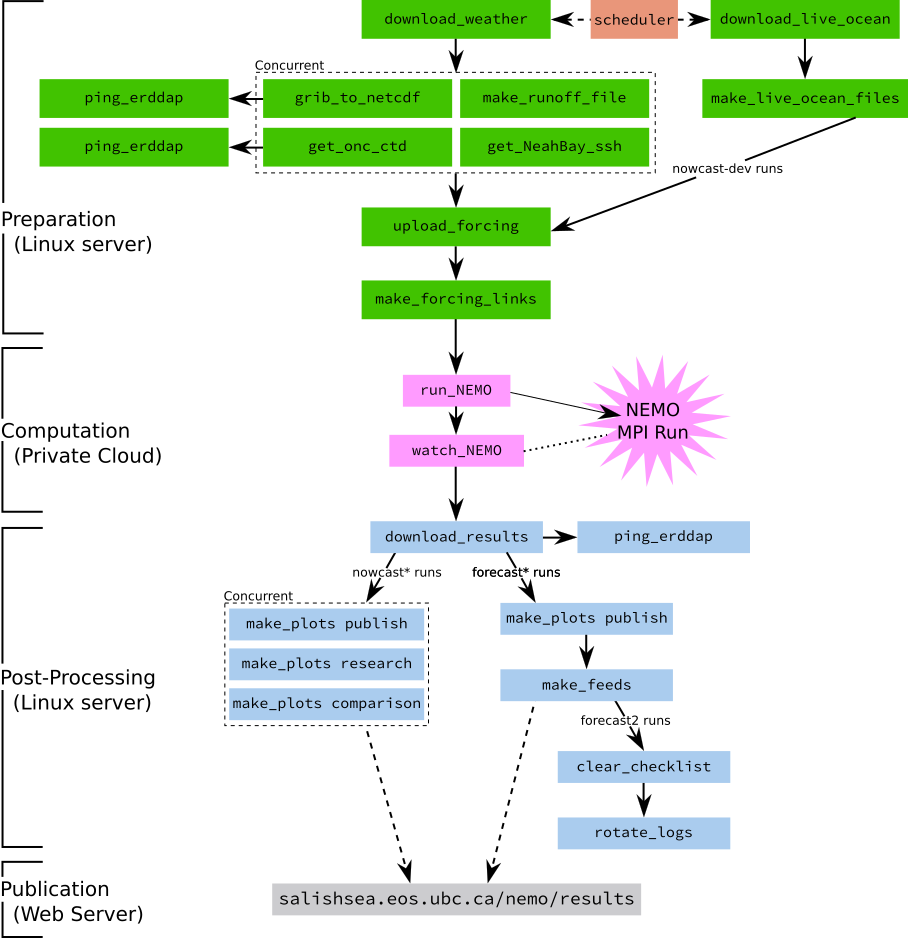
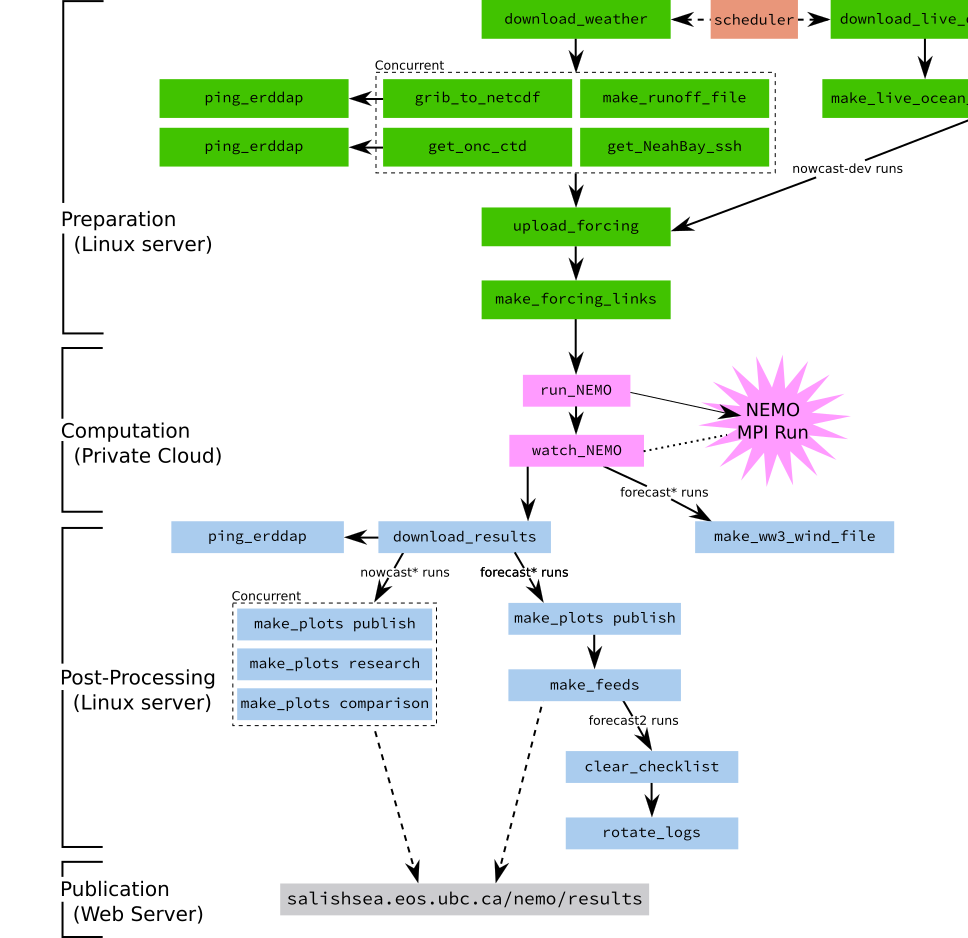
Integrate make_ww3_wind_file worker into automation.

Changed region(s): [[0.0, 0.0, 1.0, 1.0], [0.2775, 0.9275, 0.3084, 0.9893]]

diff --git a/tests/test_next_workers.py b/tests/test_next_workers.py
@@ -51,12 +51,16 @@ def config():
                 },
                 'salish': {
                     'shared storage': True,
-                    'run types': ['nowast-dev'],
+                    'run types': ['nowcast-dev'],
                 },
             },
             'remote hosts': ['cloud host'],
             'cloud host': 'west.cloud',
             'nowcast-dev host': 'salish',
+        },
+        'wave forecasts': {
+            'host': 'cloud',
+            'run when': 'after nowcast-green',
         }
     }
 
@@ -471,6 +475,46 @@ class TestAfterWatchNEMO:
             args=['cloud', 'nowcast-green'], host='localhost')
         assert workers[0] == expected
 
+    def test_success_forecast_launch_make_ww3_wind_file_forecast(
+        self, config, checklist,
+    ):
+        p_config = patch.dict(
+            config['wave forecasts'], {'run when': 'after forecast'})
+        with p_config:
+            workers = next_workers.after_watch_NEMO(
+                Message(
+                    'watch_NEMO', 'success forecast', {
+                        'forecast': {
+                            'host': 'cloud', 'run date': '2017-04-14',
+                            'completed': True,
+                        }
+                    }),
+                config, checklist)
+        expected = NextWorker(
+            'nowcast.workers.make_ww3_wind_file',
+            args=['cloud', 'forecast'], host='cloud')
+        assert workers[0] == expected
+
+    def test_success_nowcast_green_launch_make_ww3_wind_file_forecast(
+        self, config, checklist,
+    ):
+        p_config = patch.dict(
+            config['wave forecasts'], {'run when': 'after nowcast-green'})
+        with p_config:
+            workers = next_workers.after_watch_NEMO(
+                Message(
+                    'watch_NEMO', 'success nowcast-green', {
+                        'nowcast-green': {
+                            'host': 'cloud', 'run date': '2017-04-14',
+                            'completed': True,
+                        }
+                    }),
+                config, checklist)
+        expected = NextWorker(
+            'nowcast.workers.make_ww3_wind_file',
+            args=['cloud', 'forecast'], host='cloud')
+        assert workers[0] == expected
+
     @pytest.mark.parametrize('msg', [
         Message(
             'watch_NEMO', 'success nowcast', {
@@ -525,6 +569,23 @@ class TestAfterWatchNEMO:
         self, msg, config, checklist,
     ):
         workers = next_workers.after_watch_NEMO(msg, config, checklist)
+        assert workers == []
+
+
+class TestAfterMakeWW3WindFile:
+    """Unit tests for the after_make_ww3_wind_file function.
+    """
+
+    @pytest.mark.parametrize('msg_type', [
+        'crash',
+        'failure forecast2',
+        'failure forecast',
+        'success forecast2',
+        'success forecast2',
+    ])
+    def test_no_next_worker_msg_types(self, msg_type, config, checklist):
+        workers = next_workers.after_make_ww3_wind_file(
+            Message('make_ww3_wind_file', msg_type), config, checklist)
         assert workers == []
 
 

diff --git a/nowcast/next_workers.py b/nowcast/next_workers.py
@@ -466,15 +466,33 @@ def after_watch_NEMO(msg, config, checklist):
     }
     if msg.type.startswith('success'):
         run_type = msg.type.split()[1]
+        wave_forecast_after = (
+            config['wave forecasts']['run when'].split('after ')[1])
         if run_type == 'nowcast':
             next_workers['success nowcast'].append(
                 NextWorker(
                     'nowcast.workers.get_NeahBay_ssh', args=['forecast']))
         if run_type == 'forecast':
-            next_workers['success forecast'].append(
-                NextWorker(
-                    'nowcast.workers.make_forcing_links',
-                    args=[msg.payload[run_type]['host'], 'nowcast-green']))
+            if wave_forecast_after == 'forecast':
+                host_name = config['wave forecasts']['host']
+                next_workers['success forecast'].append(
+                    NextWorker(
+                        'nowcast.workers.make_ww3_wind_file',
+                        args=[host_name, 'forecast'], host=host_name),
+                )
+            else:
+                next_workers['success forecast'].append(
+                    NextWorker(
+                        'nowcast.workers.make_forcing_links',
+                        args=[msg.payload[run_type]['host'], 'nowcast-green']))
+        if run_type == 'nowcast-green':
+            if wave_forecast_after == 'nowcast-green':
+                host_name = config['wave forecasts']['host']
+                next_workers['success nowcast-green'].append(
+                    NextWorker(
+                        'nowcast.workers.make_ww3_wind_file',
+                        args=[host_name, 'forecast'], host=host_name),
+                )
         enabled_host_config = (
             config['run']['enabled hosts'][msg.payload[run_type]['host']])
         if not enabled_host_config['shared storage']:
@@ -485,6 +503,27 @@ def after_watch_NEMO(msg, config, checklist):
                         msg.payload[run_type]['host'], run_type,
                         '--run-date', msg.payload[run_type]['run date']]))
     return next_workers[msg.type]
+
+
+def after_make_ww3_wind_file(msg, config, checklist):
+    """Calculate the list of workers to launch after the 
+    after_make_ww3_wind_file worker ends.
+
+    :arg msg: Nowcast system message.
+    :type msg: :py:class:`nemo_nowcast.message.Message`
+
+    :arg config: :py:class:`dict`-like object that holds the nowcast system
+                 configuration that is loaded from the system configuration
+                 file.
+    :type config: :py:class:`nemo_nowcast.config.Config`
+
+    :arg dict checklist: System checklist: data structure containing the
+                         present state of the nowcast system.
+
+    :returns: Worker(s) to launch next
+    :rtype: list
+    """
+    return []
 
 
 def after_download_results(msg, config, checklist):
